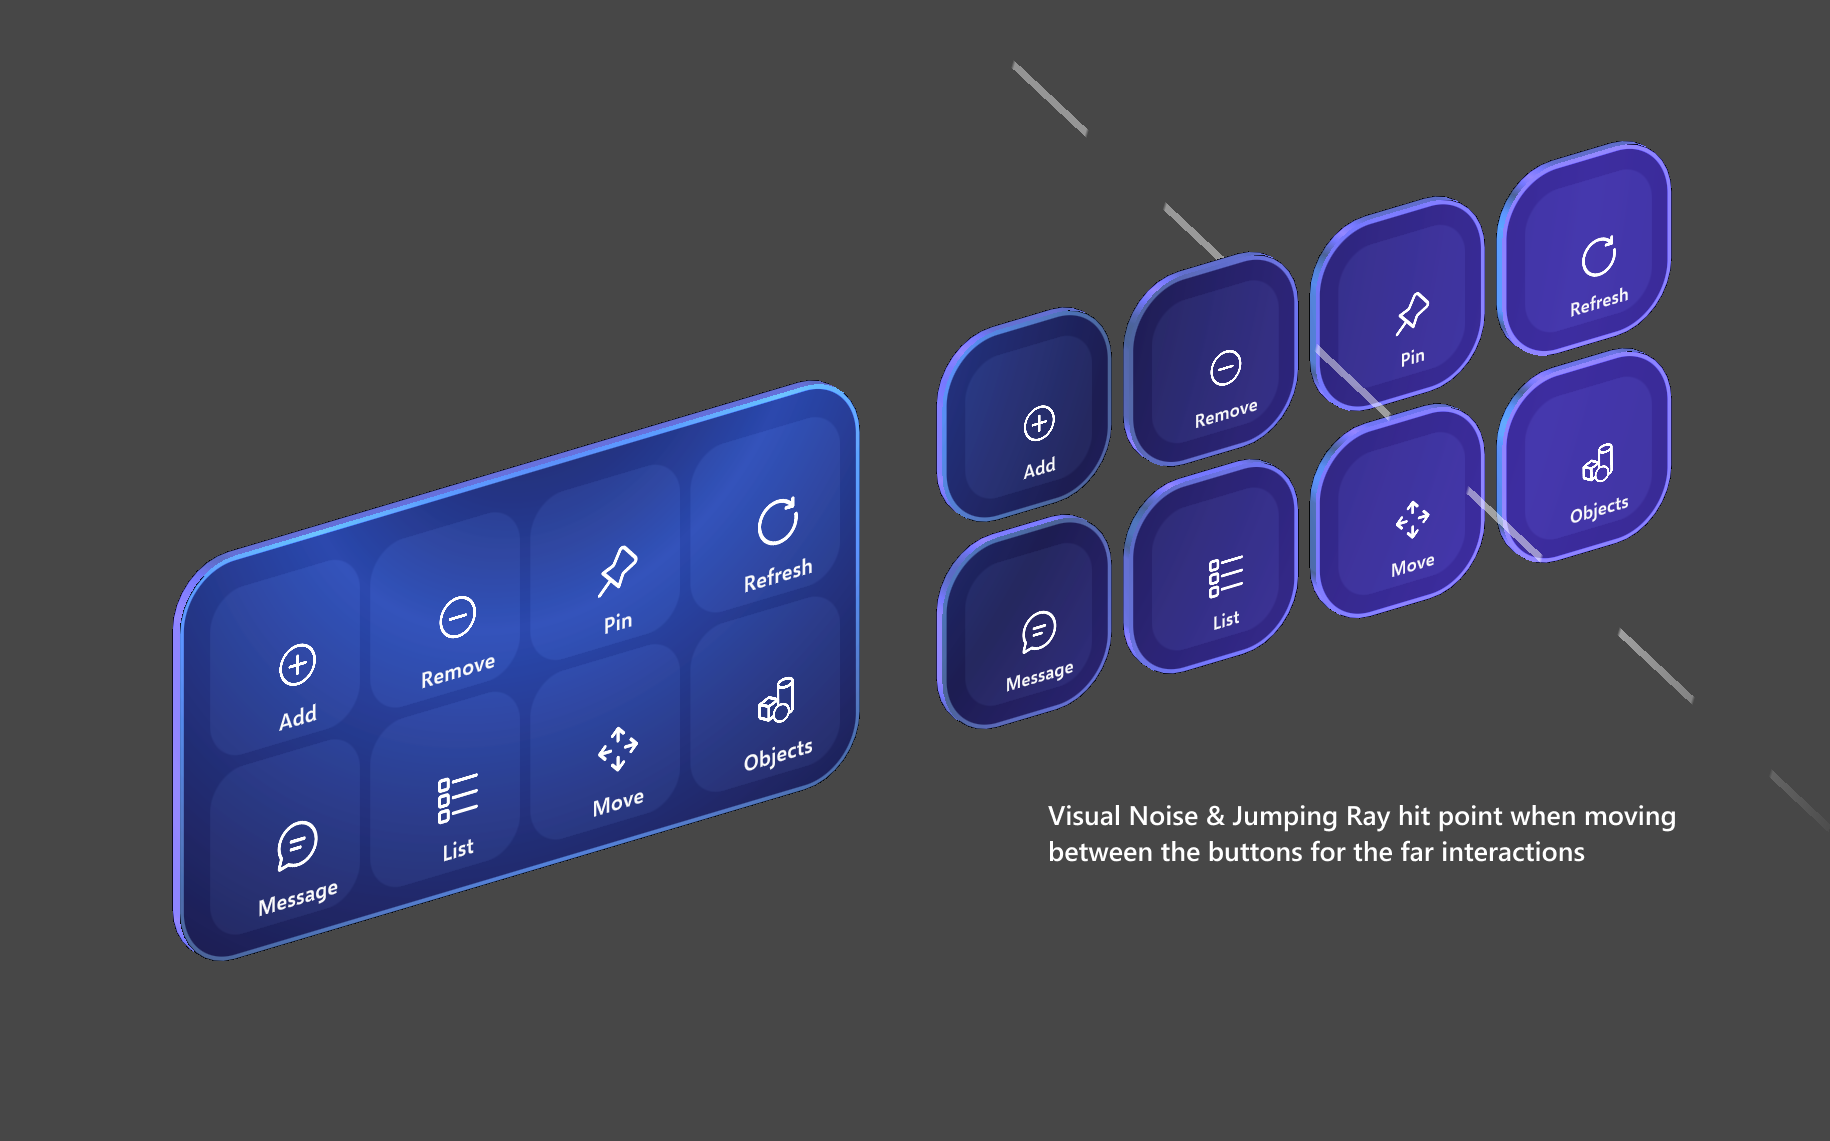
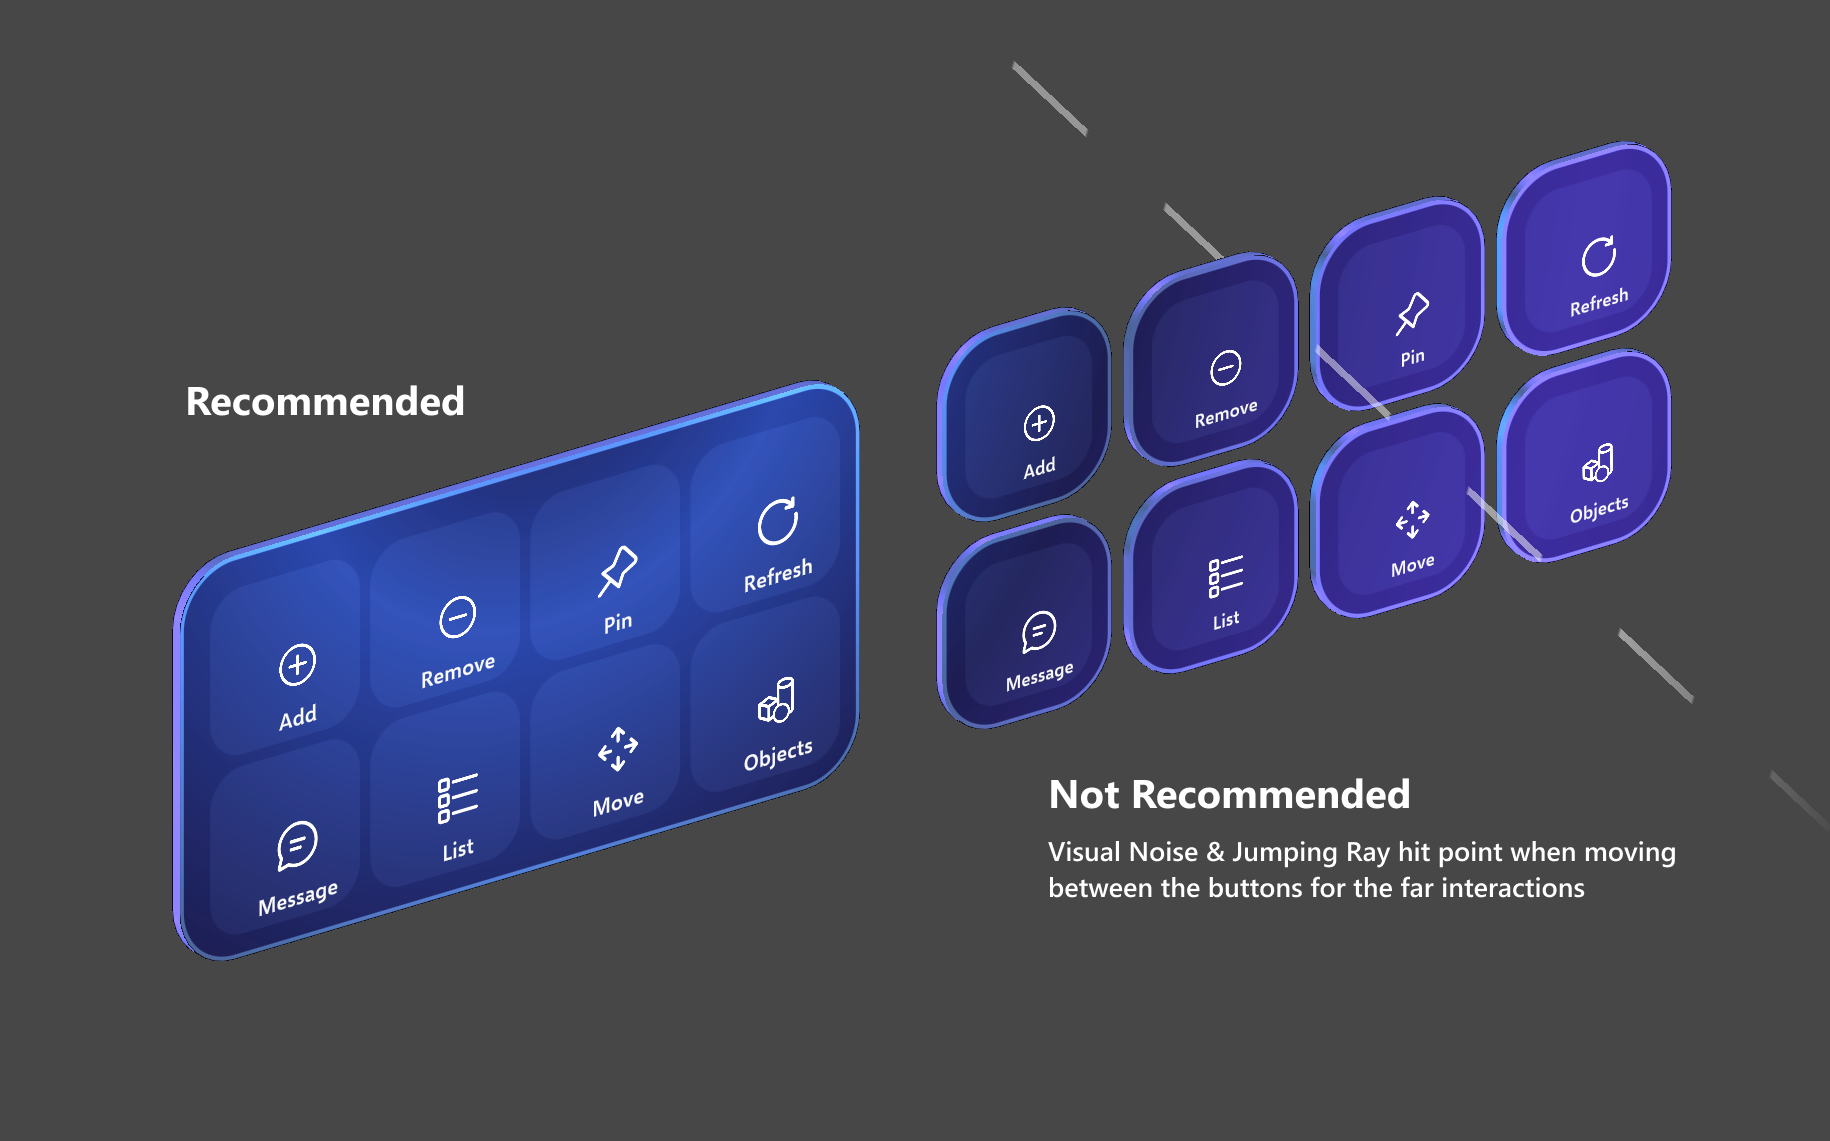
Text updates

Changed region(s): [[0.5607, 0.6748, 0.9344, 0.7975], [0.0934, 0.3374, 0.2492, 0.3681]]

diff --git a/mrtk-unity/mrtk3-uxcomponents/packages/uxcomponents/button.md b/mrtk-unity/mrtk3-uxcomponents/packages/uxcomponents/button.md
@@ -70,8 +70,13 @@ The `PressableButton` class is derived from `StatefulInteractable` with new and 
 ![PressableButton inspector screenshot](../../../mrtk3-overview/images/UXBuildingBlocks/Button/MRTK_PressableButton_Inspector.png)
 
 ## Constructing UI with buttons
-When creating menu or UI panels with multiple buttons, it is recommended to use a shared backplate geometry. By using a shared backplate, we can reduce the visual noise and improve the usability. Here are some of the examples of laying out buttons on top of the shared backplate.
+When creating menu or UI panels with multiple buttons, it is recommended to use a shared backplate geometry. By using a shared backplate, we can reduce the visual noise and improve usability. Here are some of the examples of laying out buttons on top of the shared backplate.
 
 ![Constructing UI 1](../../../mrtk3-overview/images/UXBuildingBlocks/Button/MRTK_Button_ConstructingUI0.png)
 
 ![Constructing UI 2](../../../mrtk3-overview/images/UXBuildingBlocks/Button/MRTK_Button_ConstructingUI1.png)
+
+![Constructing UI 3](../../../mrtk3-overview/images/UXBuildingBlocks/Button/MRTK_Button_SharedBackplate.png)
+
+
+
